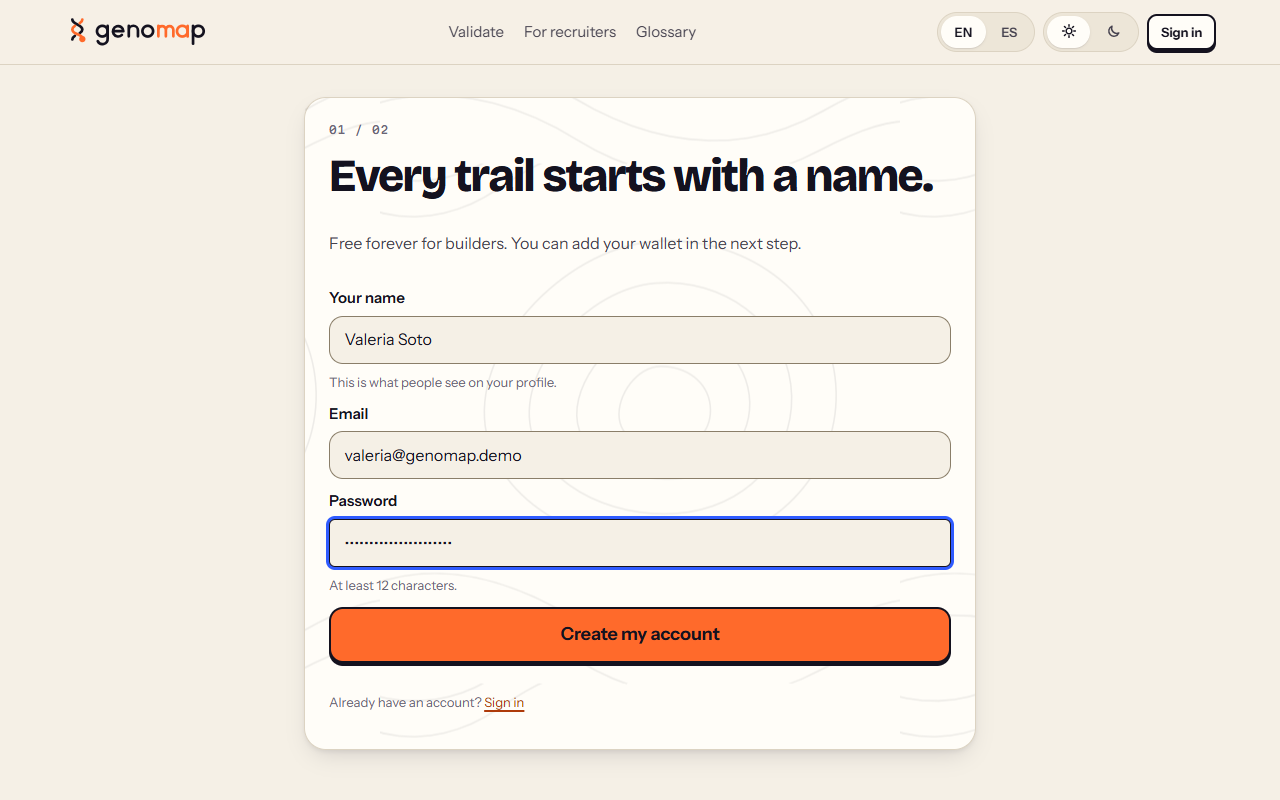
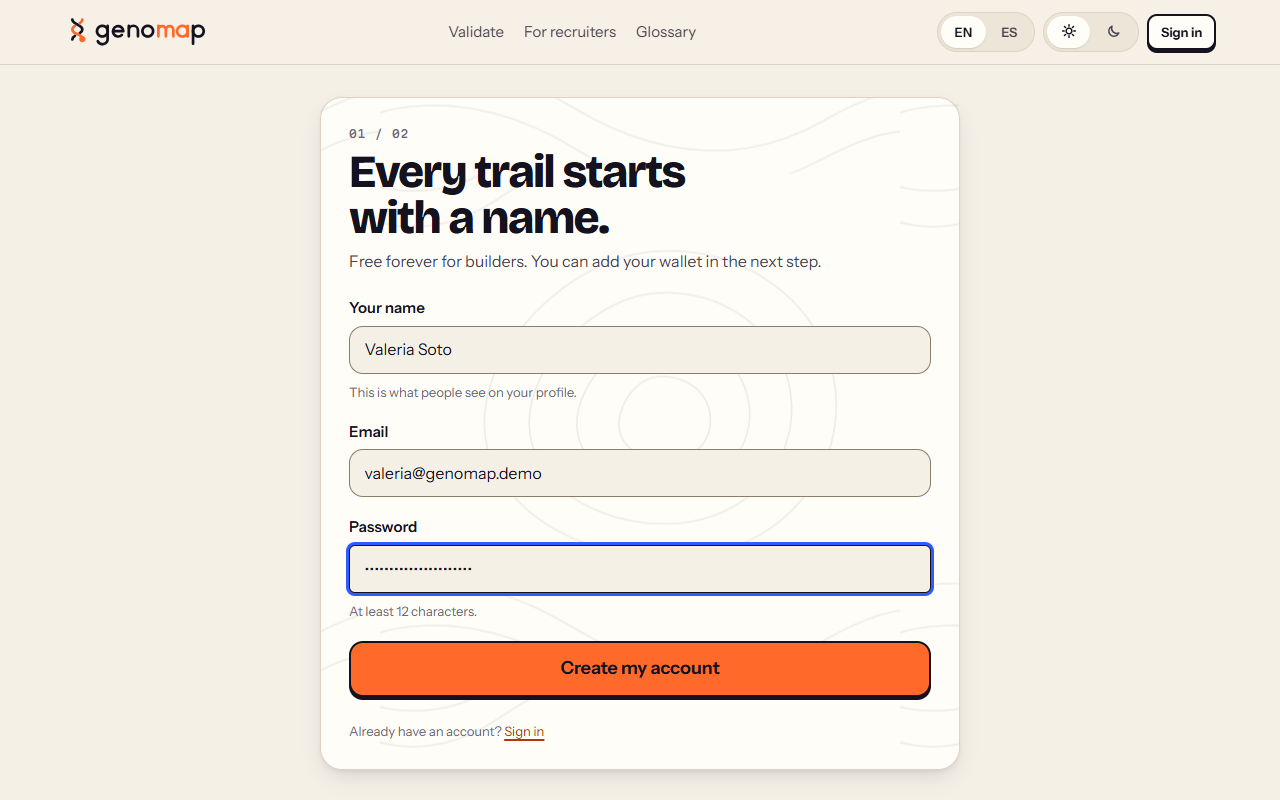
docs: refresh the walkthrough for the new interface
35 screenshots retaken from the real app on Stellar Testnet: tabs per role, My
code and Account views, the organizer check-in and events views, the MCP and API
page, and the phone menu. Updates the captions to match.

Changed region(s): [[0.25, 0.1562, 0.75, 0.9688], [0.7188, 0.5625, 0.75, 0.5938], [0.7188, 0.4375, 0.75, 0.4688]]

diff --git a/WALKTHROUGH.md b/WALKTHROUGH.md
@@ -6,12 +6,12 @@ Every screenshot below was taken from the real app (not mockups), driven end to 
 
 **The idea in one line:** builders in the Stellar ecosystem get a trail of verified marks (attended, won, staff, speaker). An approved organizer signs each mark, Genomap stores it, and it is written on Stellar against the builder's wallet. Anyone can validate a trail in seconds.
 
-| Role | What they do |
-| --- | --- |
-| **Builder** | Collects marks. Links one Stellar wallet, permanently. |
-| **Organizer** | Signs marks for the events they run. Approved by hand by a moderator. |
-| **Moderator** | Reviews and approves organizers. |
-| **Recruiter / agent** | Validates a trail from the browser or the JSON API. No account needed. |
+| Role | What they do | Where they work |
+| --- | --- | --- |
+| **Builder** | Collects marks. Links one Stellar wallet, permanently. | *My trail · My code · Account* |
+| **Organizer** | Signs marks for the events they run. Approved by hand by a moderator. | *Check-in · Events · My trail · Account* |
+| **Moderator** | Reviews and approves organizers. | *Requests* |
+| **Recruiter / agent** | Validates a trail from the browser, the JSON API or MCP. No account needed. | *Validate* |
 
 Contents: [1. Landing](#1-the-story-landing) · [2. Builder joins](#2-a-builder-joins-and-links-a-wallet) · [3. Organizer approved](#3-an-organizer-asks-a-moderator-approves) · [4. Organizer signs marks](#4-the-organizer-signs-marks-and-they-land-on-stellar) · [5. Builder verifies](#5-the-builder-sees-the-trail-and-checks-it-against-stellar) · [6. Recruiter validates](#6-a-recruiter-validates-no-account-needed) · [7. Variants](#7-dark-mode-spanish-and-mobile)
 
@@ -33,7 +33,7 @@ Scrolling down explains how it works, who it is for, and the four trust states a
 
 ![Join](docs/walkthrough/03-join.png)
 
-**Step 2 – Pick a public name.** This is how recruiters find the builder. It is chosen once.
+**Step 2 – Pick a public name.** This is how recruiters find the builder. It is chosen once. Setup is shown one step at a time, with a progress indicator.
 
 ![Username](docs/walkthrough/04-username.png)
 
@@ -45,103 +45,119 @@ For wallets other than Freighter there is a manual route: paste the address, sig
 
 ![Sign the proof message](docs/walkthrough/06-wallet-sign-message.png)
 
-**Step 4 – Linked.** The dashboard now shows the permanent anchor wallet, the builder's check-in code (as text and QR) to show organizers at events, and the privacy and verification controls.
+**Step 4 – Ready.** Setup is done and the dashboard becomes the builder's trail, empty until the first event.
 
-![Builder dashboard with linked wallet](docs/walkthrough/07-builder-linked.png)
+![Empty trail](docs/walkthrough/07-builder-trail-empty.png)
+
+**My code.** The check-in code (text and QR) is what the builder shows at an event. It has its own tab so it is one tap away.
+
+![My code](docs/walkthrough/08-builder-code.png)
+
+**Account.** Identity and public link, the permanent anchor wallet, the public-profile switch, and the way to ask to become an organizer.
+
+![Account](docs/walkthrough/09-builder-account.png)
 
 ## 3. An organizer asks, a moderator approves
 
-Organizers cannot approve themselves. They send a short request. The moderator reviews it by hand, outside the app, and writes back by email.
+Organizers cannot approve themselves. They send a short request from their account. The moderator reviews it by hand, outside the app, and writes back by email.
 
-![Organizer request form](docs/walkthrough/08-organizer-request.png)
+![Organizer request form](docs/walkthrough/10-organizer-request.png)
 
-While the request is under review the organizer sees a pending state.
+While the request is under review the organizer sees an *In review* state.
 
-![Request sent](docs/walkthrough/09-organizer-request-sent.png)
+![Request sent](docs/walkthrough/11-organizer-request-sent.png)
 
 The moderator sees a queue with who asked, their email, link and note.
 
-![Moderator queue](docs/walkthrough/10-moderator-queue.png)
+![Moderator queue](docs/walkthrough/12-moderator-queue.png)
 
 Approval is deliberate: the button stays disabled until the moderator confirms they verified the organizer outside the app.
 
-![Moderator confirms verification](docs/walkthrough/11-moderator-verified-checked.png)
+![Moderator confirms verification](docs/walkthrough/13-moderator-verified-checked.png)
 
-![Queue cleared](docs/walkthrough/12-moderator-done.png)
+![Queue cleared](docs/walkthrough/14-moderator-done.png)
 
 ## 4. The organizer signs marks, and they land on Stellar
 
-The approved organizer gets an events workspace.
+Once approved, the organizer gets a workspace with tabs. With no events yet, the first screen points to what to do next.
 
-![Organizer workspace](docs/walkthrough/13-organizer-empty.png)
+![Check-in with no events](docs/walkthrough/15-organizer-no-events.png)
 
-At the event, they type (or paste) the builder's check-in code and choose what the builder did: attended, won, staff or speaker.
+Events live on their own tab: totals, the list, and a small form to create one.
 
-![Sign a mark](docs/walkthrough/14-organizer-sign-mark.png)
+![Events](docs/walkthrough/16-organizer-events-empty.png)
 
-The mark is signed immediately and Genomap starts writing it to Stellar. While the network confirms, the mark shows an animated *Anchoring…* state and a note that the record is already safe.
+Creating an event opens it in **Check-in**, which has one job: pick the event, type (or paste) the builder's check-in code, choose what the builder did (attended, won, staff or speaker) and sign.
 
-![Anchoring](docs/walkthrough/15-organizer-anchoring.png)
+![Check-in](docs/walkthrough/17-organizer-check-in.png)
+
+The mark is signed immediately and Genomap starts writing it to Stellar. While the network confirms, the mark shows an animated *Anchoring…* state, and the confirmation sits inside the form so nothing is covered.
+
+![Anchoring](docs/walkthrough/18-organizer-anchoring.png)
 
 A few seconds later it flips to **On-chain**, with a link to the transaction on Stellar.
 
-![Anchored on-chain](docs/walkthrough/16-organizer-anchored.png)
+![Anchored on-chain](docs/walkthrough/19-organizer-anchored.png)
+
+After a second event and mark, the Events tab shows the totals: 2 signed, 2 on-chain, 0 waiting.
+
+![Events with totals](docs/walkthrough/20-organizer-events.png)
 
 ## 5. The builder sees the trail and checks it against Stellar
 
-The builder's trail now shows both marks as **On-chain**, each with its transaction link.
+The builder's trail shows both marks as **On-chain**, each with its transaction link. The two strands of the trail cross on every mark.
 
-![Builder trail](docs/walkthrough/17-builder-trail.png)
+![Builder trail](docs/walkthrough/21-builder-trail.png)
 
 **Check against Stellar** compares what Genomap shows with what the network holds for the builder's wallet, row by row. If any mark did not match, it would be flagged and the network would win.
 
-![Builder verification](docs/walkthrough/18-builder-verify-match.png)
+![Builder verification](docs/walkthrough/22-builder-verify-match.png)
 
-Profiles are private by default. One switch makes the trail findable by username or wallet.
+Profiles are private by default. One switch in Account makes the trail findable by username or wallet.
 
-![Public profile switch](docs/walkthrough/19-builder-public-on.png)
+![Public profile switch](docs/walkthrough/23-builder-public-on.png)
 
 ## 6. A recruiter validates (no account needed)
 
 The validator takes a username or a wallet address (it starts with G).
 
-![Validator](docs/walkthrough/20-validator.png)
+![Validator](docs/walkthrough/24-validator.png)
 
 The result reads in plain words ("Won 1 hackathon · last month"), shows the permanently linked wallet and the full trail of signed marks.
 
-![Public profile](docs/walkthrough/21-profile.png)
+![Public profile](docs/walkthrough/25-profile.png)
 
 One click re-checks the whole trail against the Stellar network. The recruiter does not have to trust Genomap.
 
-![Recruiter verification](docs/walkthrough/22-profile-verified.png)
+![Recruiter verification](docs/walkthrough/26-profile-verified.png)
 
 If nobody matches, the message says what to try next.
 
-![Not found](docs/walkthrough/23-validator-not-found.png)
+![Not found](docs/walkthrough/27-validator-not-found.png)
 
-Agents and bulk users get the same data as plain JSON.
+Agents and bulk users get the same data as plain JSON, and a read-only **MCP server** lets an AI agent validate builders directly (`validate_builder` and `verify_builder`).
 
-![API page](docs/walkthrough/24-api-page.png)
+![API and MCP page](docs/walkthrough/28-api-page.png)
 
 Technical words are explained in human language in a glossary, and as tooltips throughout the app.
 
-![Glossary](docs/walkthrough/25-glossary.png)
+![Glossary](docs/walkthrough/29-glossary.png)
 
 ## 7. Dark mode, Spanish and mobile
 
 Dark theme ("Night survey"):
 
-![Profile in dark mode](docs/walkthrough/26-profile-dark.png)
+![Profile in dark mode](docs/walkthrough/30-profile-dark.png)
 
 Spanish, picked automatically from a Spanish browser:
 
-![Landing in Spanish](docs/walkthrough/27-landing-es.png)
+![Landing in Spanish](docs/walkthrough/31-landing-es.png)
 
-Mobile profile and landing:
+On phones, the navigation folds into a menu so every page stays reachable:
 
-| Profile | Landing |
-| --- | --- |
-| ![Mobile profile](docs/walkthrough/28-profile-mobile.png) | ![Mobile landing](docs/walkthrough/29-landing-mobile.png) |
+| Landing | Menu | Profile | Organizer check-in |
+| --- | --- | --- | --- |
+| ![Mobile landing](docs/walkthrough/32-landing-mobile.png) | ![Mobile menu](docs/walkthrough/33-menu-mobile.png) | ![Mobile profile](docs/walkthrough/34-profile-mobile.png) | ![Mobile organizer](docs/walkthrough/35-organizer-mobile.png) |
 
 ---
 
